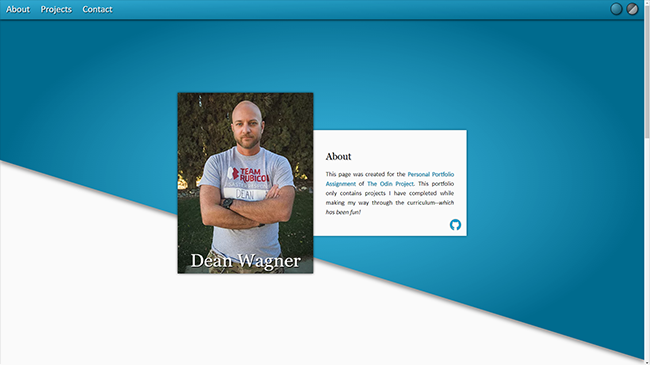
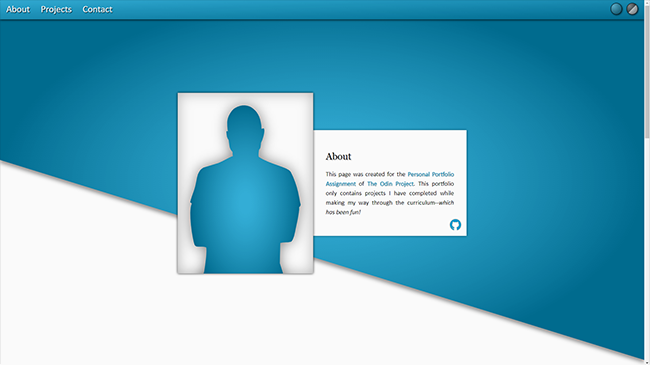
changed profile image and screenshots

Changed region(s): [[0.2462, 0.2411, 0.4923, 0.7534]]

diff --git a/index.html b/index.html
@@ -52,6 +52,16 @@
                 </div>
             </nav>
             <section id="heading_wrapper">
+                <svg xmlns="http://www.w3.org/2000/svg" viewBox="0 0 286.97 509.26">
+                    <defs>
+                        <radialGradient id="silhouette-gradient">
+                            <stop offset="10%" stop-opacity="0.2" stop-color="white"/>
+                            <stop offset="100%" stop-opacity="0.3" stop-color="black"/>
+                        </radialGradient>
+                    </defs>
+                    <path id="silhouette-base" d="M185,60.26c.1,3,5.78-2.9,7,1,2.5,8.11-3.76,27.78-8,36-.6,10.53-2.12,16-5,18-1.49,7.95-2.17,12.15-1,19,29.59,19.65,75,25.92,83,39,19.59,36.32,22,72,26,85-1,5-2,4-4,7,1,15-8.11,49.53-9,56-1,6.88-6.12,32.64-13,34-8,2.12-17.66.66-27,3-.31,21-.83,36.58-1.18,52.77,8.33,25.56,21.1,68.73,18.18,98.23H26c6.31-19-7.82-30-5-47,1.61-9.71,12.87-18.42,15-28,2.46-11,8.94-61,5-65-14.11-4-26.58,2.58-30-7-5.17-14.5-16.73-85.35-7-106-1-3-2-2-4-4,2-9,6-20,10-31,8.28-23.18,4.66-47.86,24-59l39-12c13.52-5.26,23.79-13.1,38-18-.26-.74-.92-4.68-1-11-6-7-7.8-7.71-10-31-4.08-4.09-5.61-12-6-21-.06-4.17,4.27-.77,4-2-1.21-5.5-3-20.86-1-30,2.4-11,10.58-24.85,19-30C151.11-14.2,184.75,14.4,185,60.26Z"/>
+                    <path fill="url(#silhouette-gradient)" d="M185,60.26c.1,3,5.78-2.9,7,1,2.5,8.11-3.76,27.78-8,36-.6,10.53-2.12,16-5,18-1.49,7.95-2.17,12.15-1,19,29.59,19.65,75,25.92,83,39,19.59,36.32,22,72,26,85-1,5-2,4-4,7,1,15-8.11,49.53-9,56-1,6.88-6.12,32.64-13,34-8,2.12-17.66.66-27,3-.31,21-.83,36.58-1.18,52.77,8.33,25.56,21.1,68.73,18.18,98.23H26c6.31-19-7.82-30-5-47,1.61-9.71,12.87-18.42,15-28,2.46-11,8.94-61,5-65-14.11-4-26.58,2.58-30-7-5.17-14.5-16.73-85.35-7-106-1-3-2-2-4-4,2-9,6-20,10-31,8.28-23.18,4.66-47.86,24-59l39-12c13.52-5.26,23.79-13.1,38-18-.26-.74-.92-4.68-1-11-6-7-7.8-7.71-10-31-4.08-4.09-5.61-12-6-21-.06-4.17,4.27-.77,4-2-1.21-5.5-3-20.86-1-30,2.4-11,10.58-24.85,19-30C151.11-14.2,184.75,14.4,185,60.26Z"/>
+                </svg>
                 <h1>Dean Wagner</h1>
             </section>
             <section id="about_me">

diff --git a/res/portfolio.css b/res/portfolio.css
@@ -239,21 +239,42 @@ header nav #nav_styles #theme_picker:active {
 }
 
 header #heading_wrapper {
+    background-color: var(--color-background);
+    box-shadow: 0 0 0.4em rgba(0,0,0,0.8),
+                inset 0 0 2em rgba(0,0,0,0.3);
+    height: 50vmin;
+    max-height: 533px;
+    max-width: 400px;
+    overflow: hidden;
+    padding: 2em 2em 0;
+    transition: var(--transition-all);
+    width: 50vmin;
+    z-index: 2;
+    /*
     align-items: flex-end;
     background-image: url('../img/dean-wagner.webp');
     background-position: top center;
     background-size: cover;
-    box-shadow: 0 0 0.4em rgba(0,0,0,0.8);
     display: flex;
-    height: 50vmin;
     justify-content: center;
-    max-height: 533px;
-    max-width: 400px;
-    width: 50vmin;
-    z-index: 2;
+    */
+}
+
+header #heading_wrapper svg {
+    display: block;
+    filter: drop-shadow(0 0 1em rgba(0,0,0,0.5));
+    height: auto;
+    transition: var(--transition-all);
+    width: 100%;
+}
+
+header #heading_wrapper svg #silhouette-base {
+    fill: var(--color-accent);
+    transition: var(--transition-all);
 }
 
 header h1 {
+    display: none;
     color: #fafafa;
     font-size: 5vmin;
     margin: 0 auto 0.5rem;
